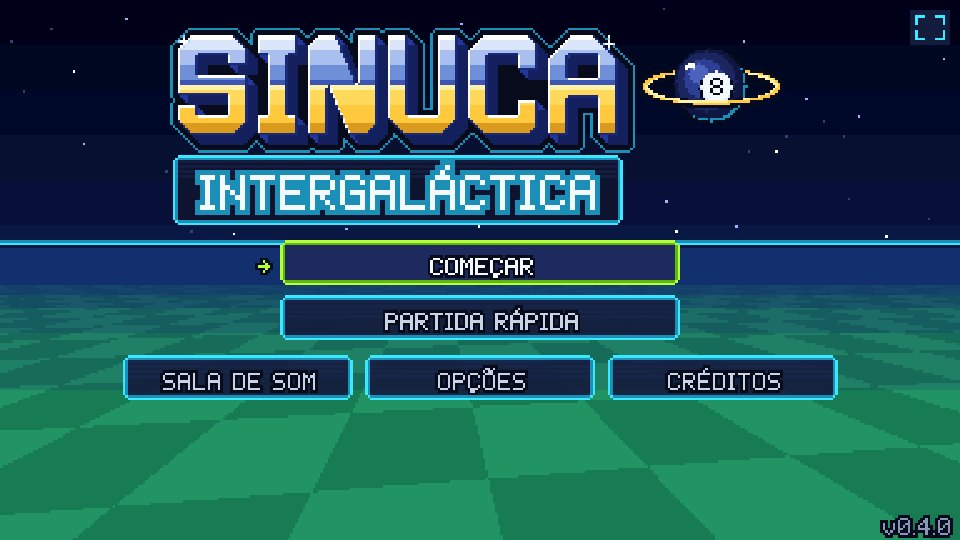
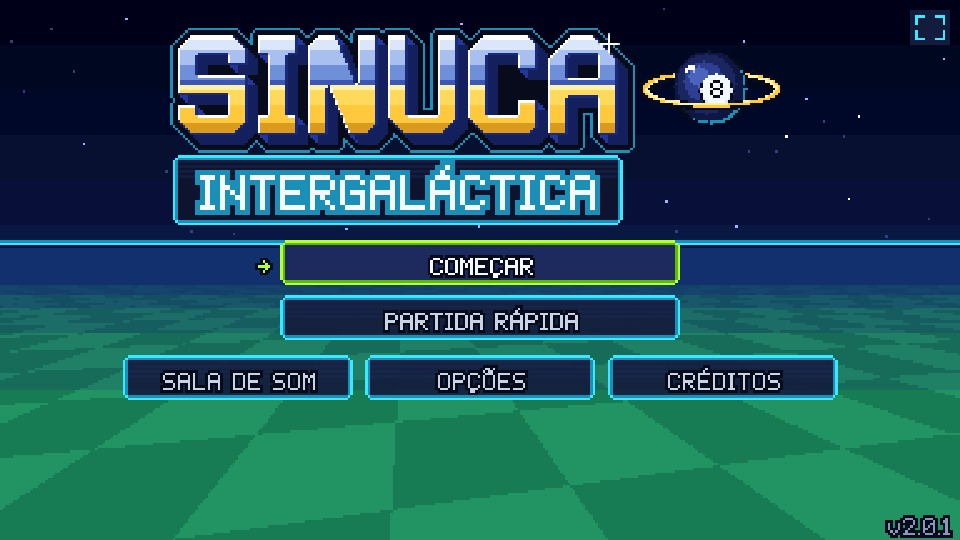
Sinuca Intergaláctica 2.0.1 no portfólio 🔔🎱
HTML de release da 2.0.1, selo, campo v em GAMES, tabela do README e linha nova no topo do HIST (2026-11-28T10:49, horário de Brasília). A capa assets/sinuca.jpg foi capturada de novo (960×540, tela de título com o menu) para mostrar a versão nova, como manda a regra da capa.

Claude-Session: https://claude.ai/code/session_0124PPErSPeQcEXRE2naKfsf

diff --git a/jogos/sinuca/index.html b/jogos/sinuca/index.html
@@ -3,7 +3,7 @@
 <head>
 <meta charset="utf-8">
 <meta name="viewport" content="width=device-width,initial-scale=1,maximum-scale=1,user-scalable=no,viewport-fit=cover">
-<title>Sinuca Intergaláctica · v2.0.0</title>
+<title>Sinuca Intergaláctica · v2.0.1</title>
 <style>
   html, body { margin: 0; height: 100%; background: #000; overflow: hidden; touch-action: none; -webkit-user-select: none; user-select: none; }
   #stage { position: fixed; left: 0; top: 0; width: 100%; height: 100%; transform-origin: 0 0; }
@@ -20,7 +20,7 @@
  * Motor JGK-16 — Javarotti Game Kit, família 16-bit (pixel art 2D, Mode 7, sampler estilo SNES). Nasceu na Sinuca Intergaláctica (2026-11-21).
  * O JGK é o coração do time de agentes Javarotti: aprende jogo após jogo e melhora o jeito de construir. */
 'use strict';
-const K = window.K = { version: '2.0.0', /* ÚNICO lugar da versão (regra 14): título, créditos e <title> leem daqui */ debug: window.__KDBG || {} };
+const K = window.K = { version: '2.0.1', /* ÚNICO lugar da versão (regra 14): título, créditos e <title> leem daqui */ debug: window.__KDBG || {} };
 const TAU = Math.PI * 2, DT = 1 / 60;
 const clamp = (v, a, b) => v < a ? a : v > b ? b : v;
 const lerp = (a, b, t) => a + (b - a) * t;
@@ -983,7 +983,7 @@ K.rivalNivel = (rv, cfg) => { const n = rv.nivel || { erro: .4, pensa: 5 }; if (
 const UI = K.ui = { btns: [], focus: -1, toasts: [], modal: null, st: null, hot: null, drag: null };
 UI.init = () => {};
 UI.clear = () => { UI.btns = []; UI.focus = -1; UI.modal = null; UI.hot = null; UI.drag = null; };
-/* K.ui.button({ x, y, w, h, label, on(), dis: 'motivo' | fn → motivo, hidden: fn, small, c, id, hit: {x,y,w,h} (zona de toque maior que o desenho), noTip (não escreve o motivo embaixo do botão trancado: botão colado na borda de baixo) }) — fica até a cena trocar */
+/* K.ui.button({ x, y, w, h, label, on(), dis: 'motivo' | fn → motivo, hidden: fn, small, c, id, hit: {x,y,w,h} (zona de toque maior que o desenho), noTip (obsoleto: o motivo nunca é escrito embaixo do botão), noToast (botão trancado só toca o som de erro, sem aviso: o motivo já está escrito no próprio cartão) }) — fica até a cena trocar */
 UI.button = o => { const b = Object.assign({ w: 120, h: 18, kind: 'btn' }, o); UI.btns.push(b); return b; };
 /* K.ui.slider({ x, y, w, label, get(), set(v), min, max, step, fmt(v) }) — arrastar com mouse/toque (captura do ponteiro) ou ←/→ com foco */
 UI.slider = o => UI.button(Object.assign({ kind: 'slider', h: 18, min: 0, max: 100, step: 10 }, o));
@@ -994,7 +994,7 @@ const disOf = b => typeof b.dis === 'function' ? b.dis() : b.dis;
 /* `hit` (opcional, 0.4.0): zona de toque maior que o desenho (lição 82); no desenho e no foco vale sempre x/y/w/h */
 const inside = (b, p) => { const r = b.hit || b; return p.x >= r.x && p.y >= r.y && p.x < r.x + r.w && p.y < r.y + r.h; };
 UI.list = () => UI.modal ? UI.modal.btns : UI.btns.filter(b => vis(b) && !b.nonav);
-function act(b) { if (!b) return; const d = disOf(b); if (d) { K.sfx('erro'); UI.toast(d, P.pink, 1.6); return; } if (b.kind === 'slider') return; K.sfx(b.snd || 'ui_ok'); try { b.on && b.on(); } catch (e) { console.error(e); K._err = K._err || e; } }
+function act(b) { if (!b) return; const d = disOf(b); if (d) { K.sfx('erro'); if (!b.noToast) UI.toast(d, P.pink, 1.6); return; }   /* noToast: o próprio botão/cartão já diz o motivo (ex.: "VENÇA ZYX PARA LIBERAR"), então só toca o som de erro */ if (b.kind === 'slider') return; K.sfx(b.snd || 'ui_ok'); try { b.on && b.on(); } catch (e) { console.error(e); K._err = K._err || e; } }
 /* foco pela POSIÇÃO na tela: procura o botão mais próximo na direção */
 function moveFocus(dir) {
   const L = UI.list(); if (!L.length) return false; const cur = L[UI.focus];
@@ -1036,7 +1036,7 @@ function slideTo(b, p) { const t = clamp((p.x - (b.x + 4)) / (b.w - 8), 0, 1); c
  * texto igual ao que já está na tela só RENOVA o tempo; um aviso por vez; desenhado numa faixa embaixo, longe do conteúdo. */
 /* faixa do aviso: de baixo para cima, a primeira altura onde o aviso não encosta em nenhum botão visível da tela (nunca cobre conteúdo clicável) */
 UI.toastY = w => { const x0 = (K.v.W - w) / 2, x1 = x0 + w, B = UI.btns.filter(b => !(b.hidden && b.hidden()));
-  for (let y = K.v.H - 34; y > 20; y -= 2) if (!B.some(b => b.x < x1 && b.x + b.w > x0 && b.y < y + 16 && b.y + b.h > y - 2)) return y; return K.v.H - 34; };
+  for (let y = K.v.H - 18; y > 20; y -= 2) if (!B.some(b => b.x < x1 && b.x + b.w > x0 && b.y < y + 16 && b.y + b.h > y - 2)) return y; return K.v.H - 34; };
 UI.toast = (s, c, secs) => { const t = secs || 1.8, cur = UI.toasts[0]; if (cur && cur.s === s) { cur.t = Math.max(cur.t, t); cur.c = c || cur.c; return; } UI.toasts = [{ s, c: c || P.white, t, t0: t }]; };
 /* janela de confirmação (lição 24): foco inicial em CANCELAR, o botão de ação ignora os primeiros 250 ms e tem trava de reentrada */
 UI.confirm = o => {
@@ -1077,7 +1077,7 @@ function drawBtn(g, b, foc) {
   K.panel(g, b.x, b.y + (pr ? 1 : 0), b.w, b.h, { bg: foc ? P.panel2 : P.panel, line: d ? P.dim : foc ? P.lime : P.line, line2: d ? P.ink : foc ? P.lime2 : P.line2 });
   K.txt(g, b.label, b.x + b.w / 2, b.y + (b.h - 10) / 2 + (pr ? 1 : 0) + 1, { al: 'c', c: d ? P.dim : foc ? P.white : (b.c || P.chrome), s: b.s || 1 });
   if (foc && !UI.modal) { const a = (K.time * 4 | 0) % 2; if (!b.noArrow) K.txt(g, '→', Math.max(1, b.x - 8 - a), b.y + (b.h - 10) / 2 + 1, { c: P.lime });   // 0.3.5: a seta nunca sai da tela (botão encostado na borda)
-    if (d && !b.noTip) { const w = K.tw(d), cx = clamp(b.x + b.w / 2, w / 2 + 3, K.v.W - w / 2 - 3); K.txt(g, d, cx, b.y + b.h + 2, { al: 'c', c: P.pink }); } }   // e o motivo do botão trancado também não (ex.: "Última página" no canto direito)
+    /* 2.0 (achado do Pedro): o motivo do botão trancado NÃO é mais escrito embaixo do botão (duplicava com o aviso e passava por cima de botões e cartões); ele sai UMA vez, como aviso (UI.toast) na faixa de baixo, ao ativar o botão. noTip segue aceito e não faz nada. */ }
 }
 UI.draw = g => {
   const L = UI.list(); for (const b of UI.btns) if (vis(b)) drawBtn(g, b, !UI.modal && L[UI.focus] === b);
@@ -3695,7 +3695,7 @@ K.defScene('loja', {
         on: () => UI.confirm({ titulo: u.nome + ' NÍVEL ' + (lv + 1), texto: u.desc + ' Custa ' + preco + ' ' + K.game.moeda + '.', ok: 'COMPRAR', dis: G.creditos < preco ? 'Faltam ' + (preco - G.creditos) + ' ' + K.game.moeda : null, on: () => { G.creditos -= preco; G.up[u.id] = lv + 1; K.persist(); K.sfx('comprar'); rebuild('u:' + u.id); } }) })); });
     /* ---- TACOS: uma linha por taco da coleção, 3 por página ---- */
     this.rows.forEach((c, i) => { const lib = K.cueLiberado(c), tem = G.tacos[c.id] || c.preco === 0, eq = G.taco === c.id, y = ZLJ.ry + i * ZLJ.rp, bx = ZLJ.x + ZLJ.w - ZLJ.bw - 6;   // taco de preço 0 (o de bar) já é seu: trocar para ele não pede compra
-      this.bt.push(UI.button({ key: 'c:' + c.id, x: bx, y: y + (ZLJ.rh - ZLJ.bh) / 2, w: ZLJ.bw, h: ZLJ.bh, hit: { x: ZLJ.x, y, w: ZLJ.w, h: ZLJ.rh }, noArrow: true, label: !lib ? 'TRANCADO' : eq ? 'EQUIPADO' : tem ? 'EQUIPAR' : '◆ ' + c.preco, c: !lib ? P.dim : eq ? P.lime : tem ? P.white : G.creditos >= c.preco ? P.lime : P.chrome, dis: !lib ? Zmotivo(c) : null,
+      this.bt.push(UI.button({ key: 'c:' + c.id, x: bx, y: y + (ZLJ.rh - ZLJ.bh) / 2, w: ZLJ.bw, h: ZLJ.bh, hit: { x: ZLJ.x, y, w: ZLJ.w, h: ZLJ.rh }, noArrow: true, noToast: !lib, label: !lib ? 'TRANCADO' : eq ? 'EQUIPADO' : tem ? 'EQUIPAR' : '◆ ' + c.preco, c: !lib ? P.dim : eq ? P.lime : tem ? P.white : G.creditos >= c.preco ? P.lime : P.chrome, dis: !lib ? Zmotivo(c) : null,
         on: () => tem ? (G.taco = c.id, K.persist(), K.sfx('ui_ok'), rebuild('c:' + c.id)) : UI.confirm({ titulo: c.nome, texto: (c.desc || '') + (c.preco ? ' ' + Zfx(c).join(', ') + '.' : '') + ' Custa ' + c.preco + ' ' + K.game.moeda + '.', ok: 'COMPRAR', dis: G.creditos < c.preco ? 'Faltam ' + (c.preco - G.creditos) + ' ' + K.game.moeda : null, on: () => { G.creditos -= c.preco; G.tacos[c.id] = 1; G.taco = c.id; K.persist(); K.sfx('comprar'); rebuild('c:' + c.id); } }) })); });
     /* ---- páginas (só se a coleção tem mais de 3): embaixo à direita, ao lado do VOLTAR ---- */
     if (np > 1) { const y = Zh() - 24;

diff --git a/index.html b/index.html
@@ -317,7 +317,7 @@
       <article class="game sinuca">
         <button class="poster" type="button" data-play="sinuca" aria-label="Jogar Sinuca Intergaláctica">
           <img src="assets/sinuca.jpg" width="960" height="540" alt="Tela inicial da Sinuca Intergaláctica: logo cromado e dourado com uma bola 8 em órbita, sobre um chão de pano de sinuca em perspectiva no espaço">
-          <span class="ver" aria-hidden="true">v2.0.0</span>
+          <span class="ver" aria-hidden="true">v2.0.1</span>
         </button>
         <h2>Sinuca Intergaláctica</h2>
         <p>Sinuca de 16 bits com cara de Super Nintendo. Você é o "humano exótico" de um reality show galáctico: 5 partidas na Terra e, agora, 7 na Lua, cada uma numa mesa com um truque próprio (relevo, rebatedores, poeira, tabela em onda, crateras que puxam a bola, faders no ritmo da música, maré e uma assembleia que muda o regulamento), 12 rivais, três níveis de dificuldade e um taco colecionável para cada rival, que vai para a loja quando você o vence. Cada mesa tem uma explicação antes da primeira tacada e a Estrela Anã vem depois.</p>
@@ -462,7 +462,7 @@ const GAMES = {
   nacar:   { title: 'Nácar',                   path: 'jogos/nacar/', v: '9.2.76' },
   'cacos-de-sol': { title: 'Cacos de Sol',     path: 'jogos/cacos-de-sol/', v: '1.4.2' },
   pedrada: { title: 'Pedrada de Palito',       path: 'jogos/pedrada/', v: '1.2.1' },
-  sinuca:  { title: 'Sinuca Intergaláctica',   path: 'jogos/sinuca/', v: '2.0.0' },
+  sinuca:  { title: 'Sinuca Intergaláctica',   path: 'jogos/sinuca/', v: '2.0.1' },
   kuku:    { title: 'Kuku e a Semente do Sol', path: 'jogos/kuku/', v: '2.10' },
   'javas-brick':  { title: "Java's Brick",      path: 'jogos/javas-brick/', v: '1.0.21' }
 };
@@ -488,6 +488,7 @@ const HIST = {
     ['6.5', '2026-10-19', 'O jogo chega ao repositório: Nácar em nanquim, esqueleto articulado, os 2 primeiros capítulos e os primeiros chefes.']
   ],
   sinuca: [
+    ['2.0.1', '2026-11-28T10:49', 'Correção nos avisos de botão trancado: no mapa, na tela do planeta e na loja o aviso aparece uma vez só, na faixa de baixo, sem cobrir botões nem títulos. A capa do portfólio foi atualizada com a versão.'],
     ['2.0.0', '2026-11-28T10:18', 'A Lua chega ao jogo: 7 partidas novas, cada uma numa mesa com truque próprio (gravidade menor, poeira, tabela em onda, crateras que puxam a bola, faders que andam no ritmo da música, maré e uma assembleia que muda o regulamento a cada três tacadas), 7 rivais novos e 7 tacos de campeão. Toda mesa explica o truque antes da primeira tacada, os rivais não repetem mais a mesma fala, há quatro trilhas e quatro efeitos novos, e os gráficos agora começam sempre no ALTO (o modo automático acabou). Seu save continua valendo.'],
     ['0.4.1', '2026-11-22T18:40', 'O jogo agora ocupa a tela inteira do celular em tela cheia, sem faixas pretas: a largura acompanha a tela. Tocar fora da área do jogo não faz mais nada (o canto do dedo não gira mais o taco ao carregar a força), e a barra de força e os botões da direita ficam centrados em volta da mesa; tocar na folga de fora deles faz a mesma função (força à esquerda, ajuste fino à direita).'],
     ['0.4.0', '2026-11-22T02:46', 'Loja nova, com abas: TREINO e TACOS. Dentro de TACOS ficam as coleções, PADRÃO (taco de bar, Cometa e Quasar) e CAMPEÕES (o taco de cada personagem da Terra; cada planeta novo terá a sua coleção). As abas e os cartões são fáceis de tocar no celular, Q e E trocam de aba no teclado e o botão VER NA LOJA, depois de vencer um rival, abre direto no taco novo. Corrigido: o taco de bar não pede mais compra ao voltar para ele. O seu progresso salvo continua igual.'],

diff --git a/README.md b/README.md
@@ -7,7 +7,7 @@ Portfólio rápido dos jogos do Pedro Javarotti: um painel para escolher o jogo 
 | **Nácar** (beat'em up em nanquim, em destaque; feito antes do motor JGK) | 9.2.76 | `jogos/nacar/` |
 | **Cacos de Sol** (RPG de ação 3D) | 1.4.2 | `jogos/cacos-de-sol/` |
 | **Pedrada de Palito** (FPS de estilingue) | 1.2.1 | `jogos/pedrada/` |
-| **Sinuca Intergaláctica** (sinuca 16 bits) | 2.0.0 | `jogos/sinuca/` |
+| **Sinuca Intergaláctica** (sinuca 16 bits) | 2.0.1 | `jogos/sinuca/` |
 | **Kuku e a Semente do Sol** (plataforma 2D) | 2.10 | `jogos/kuku/` |
 | **Java's Brick** (quebra-tijolos) | 1.0.21 | `jogos/javas-brick/` |
 
